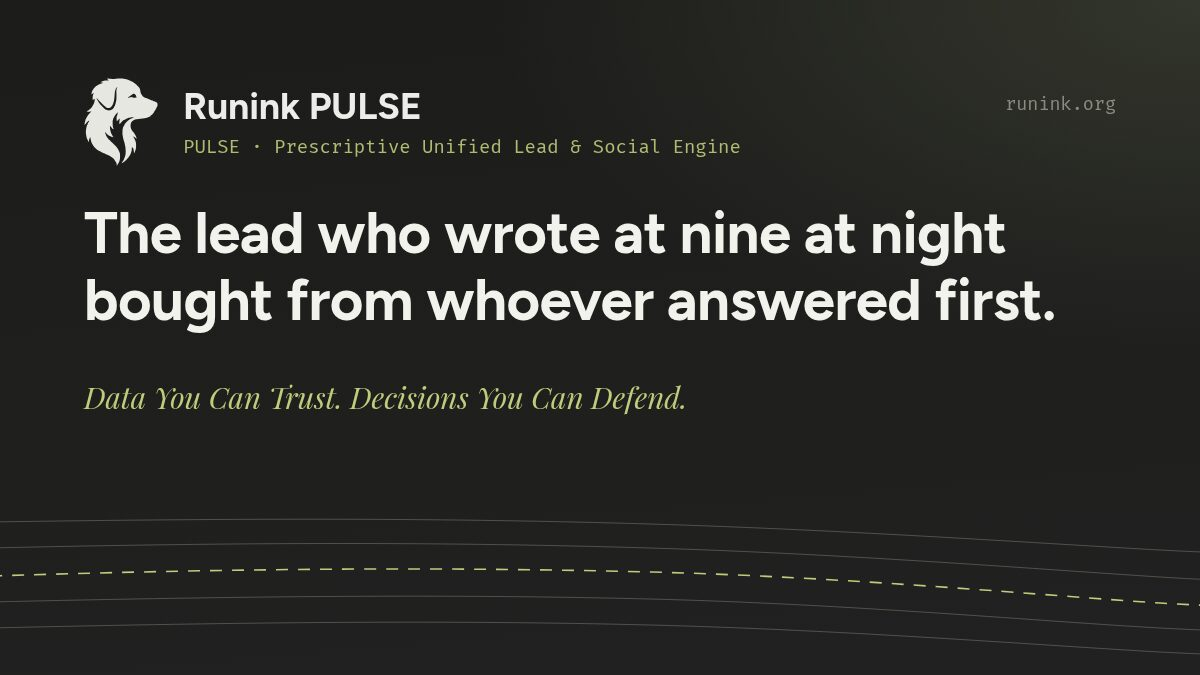
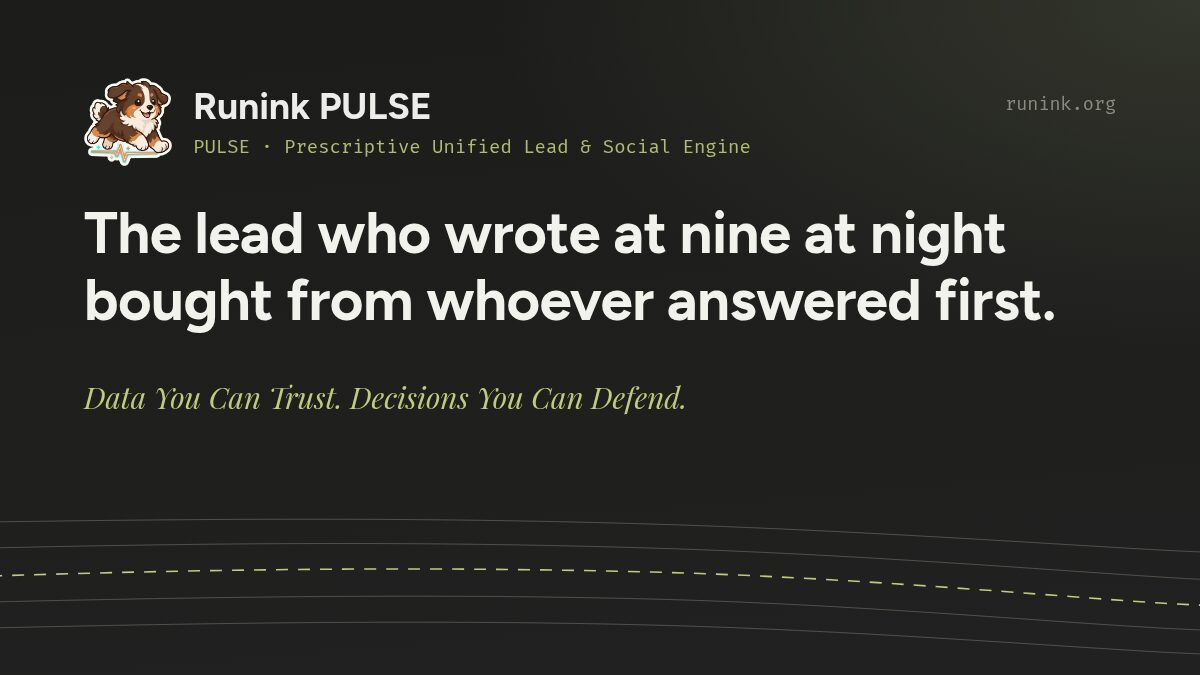
brand: PULSE gets its own persona on its product pages (#327)
Runink PULSE now shows its own persona, a cartoon puppy running along a
heartbeat line, where it used to show the Runink dog head. The Runink logo
stays as the company's mark in the header, the footer and on FACE.

- /products/pulse/: the persona sits in the hero's empty right column,
  with the acronym PULSE under it (alt text "PULSE").
- /products/: the PULSE card shows the persona, as the TIDE and River
  cards show their own marks.
- The PULSE share card (static/images/products/pulse-og.jpg) is redrawn
  by scripts/og-cards with the persona, as the TIDE card is.

One source, assets/images/brand/pulse-persona.webp (640 px, 63 KB), is
never published itself: Hugo writes the 1x and 2x WebP sizes each page
needs at build time (new partial product/logo.html, and a `persona`
option on the hero shortcode).

Claude-Session: https://claude.ai/code/session_01KRjGSLSXGakj9oHM7zC2BD

Changed region(s): [[0.0617, 0.0933, 0.6167, 0.2489]]

diff --git a/layouts/shortcodes/hero.html b/layouts/shortcodes/hero.html
@@ -6,6 +6,8 @@
 {{ $secondary_button_url := .Get "secondary_button_url" }}
 {{ $hero_image := .Get "hero_image" }}
 {{ $background_image := .Get "background_image" }}
+{{ $persona := .Get "persona" }}
+{{ $persona_label := .Get "persona_label" }}
 {{ $gradient_from := .Get "gradient-from" }}
 {{ $gradient_to := .Get "gradient-to" }}
 {{ $gradient_angle := .Get "gradient-angle" | default "180" }}
@@ -124,7 +126,18 @@
                         class="absolute inset-0 rounded-xl bg-gradient-to-tr from-white/10 to-transparent opacity-0 group-hover:opacity-20 transition-opacity duration-500 pointer-events-none">
                     </div>
                 </div>
-                {{ end }}
+                {{ else }}{{ with $persona }}
+                {{/* A product's persona (Runink PULSE's puppy) in the empty right
+                     column: one source in assets/, two sizes written by Hugo at
+                     build time, and the product's acronym under it. */}}
+                {{ $res := resources.Get (strings.TrimPrefix "/" .) }}
+                {{ $one := $res.Resize "320x webp q90 drawing Lanczos" }}
+                {{ $two := $res.Resize "640x webp q90 drawing Lanczos" }}
+                <figure class="relative z-10 flex flex-col items-center gap-4 m-0">
+                    <img src="{{ $one.RelPermalink }}" srcset="{{ $one.RelPermalink }} 1x, {{ $two.RelPermalink }} 2x" alt="{{ $persona_label }}" width="{{ $one.Width }}" height="{{ $one.Height }}" class="w-56 md:w-72 lg:w-80 h-auto" fetchpriority="high">
+                    {{ with $persona_label }}<figcaption class="text-xs font-bold uppercase tracking-[0.2em] text-signal">{{ . }}</figcaption>{{ end }}
+                </figure>
+                {{ end }}{{ end }}
 
                 <!-- Background Orbs -->
                 <div

diff --git a/layouts/partials/product/logo.html b/layouts/partials/product/logo.html
@@ -1,0 +1,18 @@
+{{- /* A product's own logo as an <img>. Takes (dict "src" path "size" px "alt" text).
+     An SVG (Runink River, Runink TIDE) is served as it is. A raster logo (the PULSE
+     persona, assets/images/brand/pulse-persona.webp) is one source in assets/, and
+     Hugo writes the two sizes the page needs, 1x and 2x, as WebP at build time; the
+     source itself is never published. Anything else (an SVG) is linked as given. */ -}}
+{{- $size := .size | default 44 -}}
+{{- $alt := .alt | default "" | htmlEscape -}}
+{{- $res := resources.Get (strings.TrimPrefix "/" .src) -}}
+{{- $out := "" -}}
+{{- if and $res (ne $res.MediaType.SubType "svg") (eq $res.ResourceType "image") -}}
+  {{- $one := $res.Resize (printf "%dx webp q90 drawing Lanczos" $size) -}}
+  {{- $two := $res.Resize (printf "%dx webp q90 drawing Lanczos" (mul $size 2)) -}}
+  {{- $out = printf `<img class="rp-logo" src="%s" srcset="%s 1x, %s 2x" alt="%s" width="%d" height="%d">` $one.RelPermalink $one.RelPermalink $two.RelPermalink $alt $one.Width $one.Height -}}
+{{- else -}}
+  {{- $url := .src | relURL -}}
+  {{- $out = printf `<img class="rp-logo" src="%s" alt="%s" width="%d" height="%d">` $url $alt $size $size -}}
+{{- end -}}
+{{- return ($out | safeHTML) -}}

diff --git a/layouts/partials/product/mark.html b/layouts/partials/product/mark.html
@@ -1,7 +1,8 @@
 {{- /* The logo on a product page. Runink's own products take the Runink dog head, drawn
      as a CSS mask so it takes the colour it sits on; a product with its own mark
      (Runink River's puppy on a raft, Runink TIDE's puppy on a surfboard; BRAND.md "two logos")
-     passes its path as .logo. FACE and PULSE keep the dog head. */ -}}
+     passes its path as .logo. FACE keeps the dog head. Runink PULSE has its own persona,
+     but its page uses layout "landing" and shows it in the hero (shortcodes/hero.html). */ -}}
 {{- $out := `<span class="rp-dog" aria-hidden="true"></span>` -}}
 {{- with .logo -}}
   {{- $out = printf `<img class="rp-logo" src="%s" alt="" width="64" height="64">` (. | relURL) -}}

diff --git a/layouts/products/list.html b/layouts/products/list.html
@@ -28,7 +28,7 @@
       <li>
         <a class="rp-paper rp-index-card" href="{{ .url | relURL }}" data-print="{{ .url | absURL }}">
           <span class="rp-index-name">
-            {{ with .logo }}<img class="rp-logo" src="{{ . | relURL }}" alt="" width="44" height="44">{{ else }}<span class="rp-dog" aria-hidden="true"></span>{{ end }}
+            {{ if .logo }}{{ partial "product/logo.html" (dict "src" .logo "size" 44 "alt" .logo_alt) }}{{ else }}<span class="rp-dog" aria-hidden="true"></span>{{ end }}
             <b>{{ .full | default .name }}</b>
           </span>
           {{ with .meaning }}<small class="rp-index-meaning">{{ . }}</small>{{ end }}

diff --git a/content/products/pulse.md b/content/products/pulse.md
@@ -43,6 +43,11 @@ next_about: "Runink PULSE"
 # assistant's audit card mid-run, beside "One line to start"; it goes in only once
 # one exists with no third-party data on it.
 #
+# The hero shows the PULSE persona (owner, 2026-10-31: each product gets its own
+# cartoon persona; the Runink logo stays the company's). One source,
+# assets/images/brand/pulse-persona.webp; Hugo writes the sizes. It is a mark, not a
+# product image, so the note above about screenshots still stands.
+#
 # Refreshed 2026-10-10 against the shipped product, with every line checked
 # against what it actually does. What was added: the one-line audit now says what
 # each step records — where its result came from, and why a step that could not
@@ -72,6 +77,8 @@ image: "/images/products/pulse-og.jpg"
     primary_button_url="/#contact"
     secondary_button_text="Read the PULSE paper"
     secondary_button_url="/blog/whitepapers/runink-pulse/"
+    persona="images/brand/pulse-persona.webp"
+    persona_label="PULSE"
     size="normal"
     gradient-from="var(--rk-sunk)"
     gradient-to="var(--rk-ground)"

diff --git a/scripts/og-cards/README.md b/scripts/og-cards/README.md
@@ -7,5 +7,5 @@ subtitle, headline lines and output file.
 Regenerate with `node scripts/og-cards/render.mjs [id ...]` (needs `google-chrome-stable`
 or `$CHROME`, and ImageMagick's `magick`), then look at every card it wrote before
 committing. Headlines are a page's own hero copy, under CONTENT.md like any body copy.
-A card with `"markImage": true` shows its `mark` in its own colours (Runink River's and
-Runink TIDE's marks) instead of as a one-colour mask.
+A card with `"markImage": true` shows its `mark` in its own colours (the Runink River
+and Runink TIDE marks, and the Runink PULSE persona) instead of as a one-colour mask.

diff --git a/content/products/_index.md b/content/products/_index.md
@@ -31,6 +31,8 @@ items:
   - name: "Runink PULSE"
     full: "Runink PULSE: Prescriptive Unified Lead & Social Engine"
     url: "/products/pulse/"
+    logo: "/images/brand/pulse-persona.webp"
+    logo_alt: "PULSE"
     line: "One marketing application your team operates: the audit, the research, the leads and the material, with every channel off until you turn it on."
   - name: "Runink River"
     meaning: "RIVER · Raft-Integrated Validated Event Runtime"
